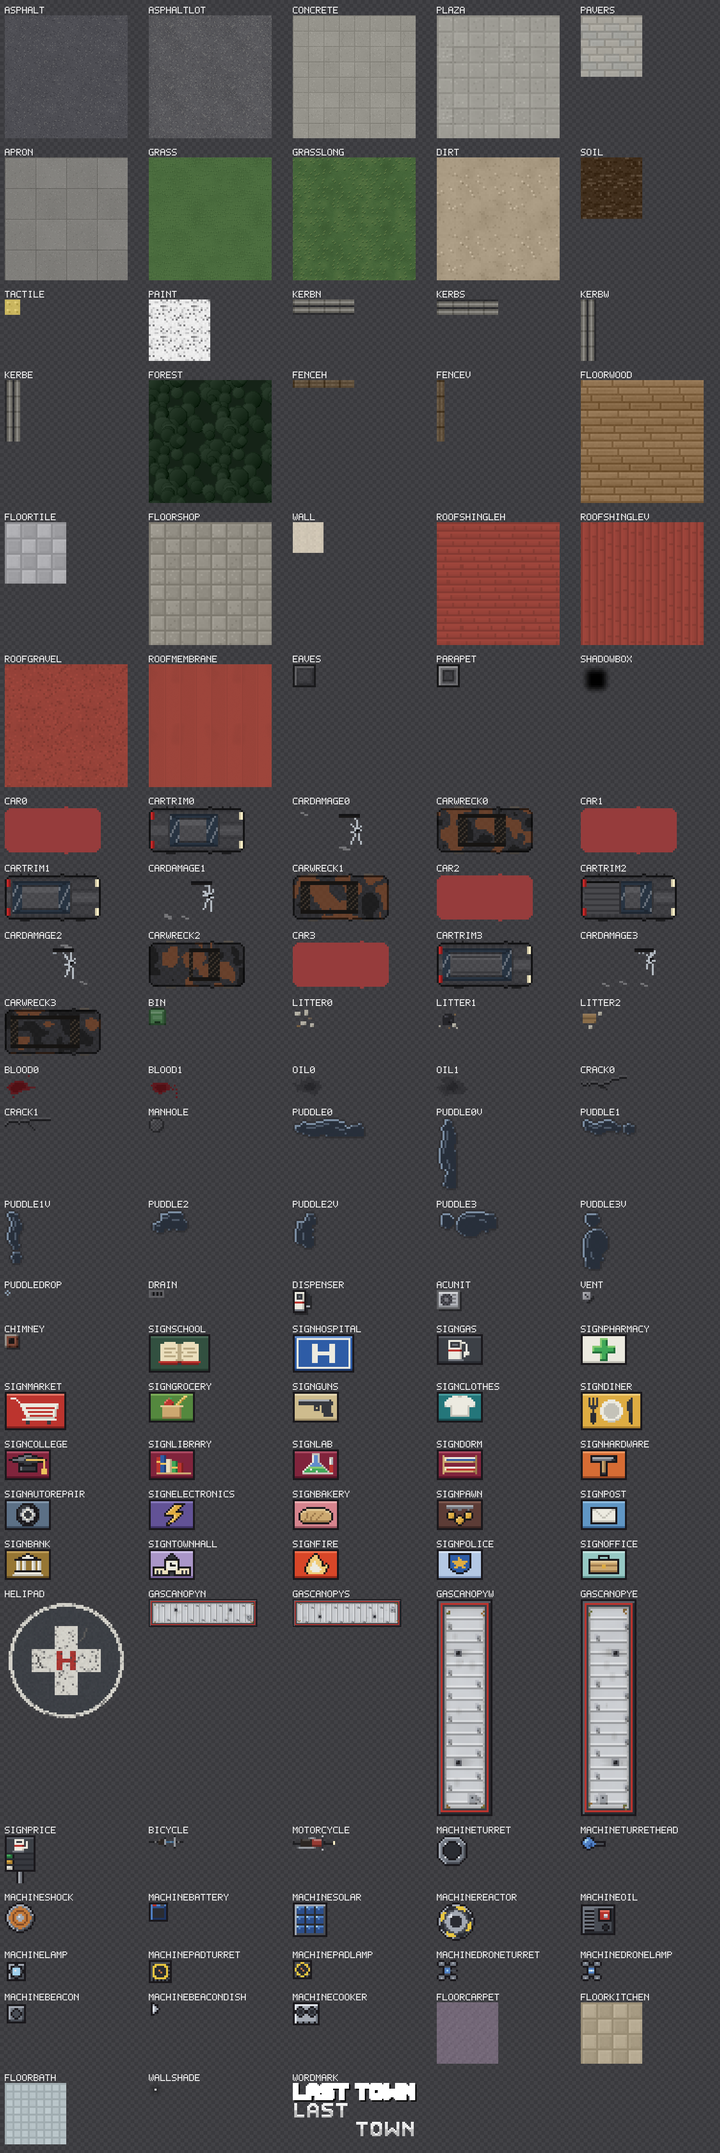
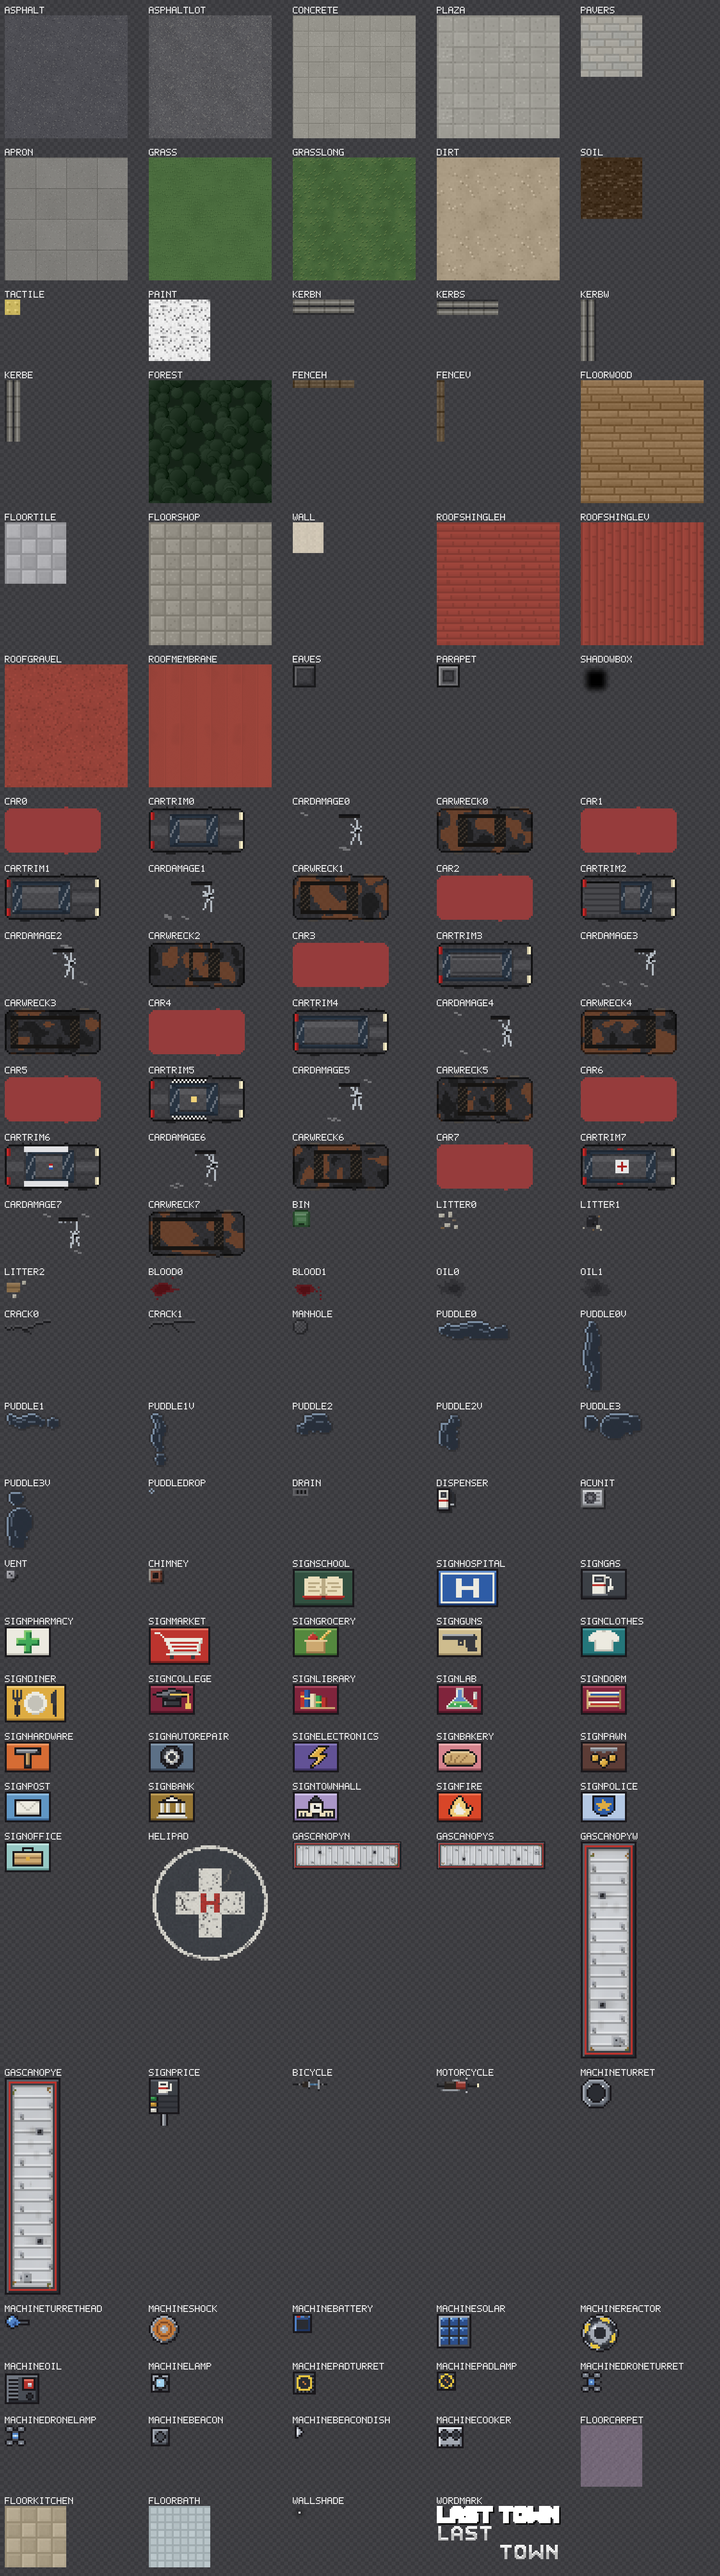
beta: tipos reais de veiculos (van/taxi/police/ambulance) + tints por local
4 novos estilos mesmo footprint 200x100 (gen-world-art CAR_STYLES 4->8,
livery no trim: porta correr, xadrez taxi, faixa+giroflex, cruz).
View: CAR_STYLES 8 + arrays. Mundo: CarDepot ctx (hospital/police/
public/shop/curb/pump/campus), carHash exato MP-26, base dessaturada
VEI-04. Renders rua/posto em docs/vehicles/img/*-v2.png.

Changed region(s): [[0.0, 0.0, 0.9813, 0.9987], [0.3987, 0.8426, 0.5827, 0.9987], [0.184, 0.8738, 0.3067, 0.9987]]

diff --git a/src/shared/game/world.ts b/src/shared/game/world.ts
@@ -662,6 +662,50 @@ function deadTownHsv(x: number, y: number, salt: number): Color3 {
 	return Color3.fromHSV(hue, 70 / 255, 190 / 255);
 }
 
+/**
+ * An exact 0..1 hash for service-vehicle tints (same integer discipline as `treeHash`: every intermediate under
+ * 2^53, so the server and every client agree to the bit, MP-26). Salts 91..95 live far from the tints (17, 27),
+ * the pump (83, 84) and the view (21, 23, 25, 26): paint is paint, never a rect, an id or a heading.
+ */
+function carHash(x: number, y: number, salt: number): number {
+	let s = (math.floor(x) * 5059 + math.floor(y) * 3083 + salt * 69557 + 7) % TREE_P;
+	s = (s * s + 3) % TREE_P;
+	s = (s * 27061 + 5) % TREE_P;
+	s = (s * s + 11) % TREE_P;
+	return s / TREE_P;
+}
+
+/** Where a parked car stands: the depot decides which service colours may show (VEI, ROADMAP item 6). */
+export type CarDepot = "curb" | "public" | "hospital" | "police" | "shop" | "construction" | "pump" | "campus";
+
+export interface CarCtx {
+	depot: CarDepot;
+	avenue: boolean;
+	commercial: boolean;
+}
+
+/**
+ * A car's paint (visual only, never physics or seed): a dessaturated base per VEI-04 (S 42, V 178, never neon)
+ * plus rare service colours that only show where they make sense -- white ambulances at the hospital, white-blue
+ * cruisers by the station, yellow cabs on avenues, commercial streets and public/shop lots. Pumps and the campus
+ * always wear the base (students' cars, fill-ups in progress).
+ */
+function carTint(x: number, y: number, ctx: CarCtx): Color3 {
+	if (ctx.depot !== "pump" && ctx.depot !== "campus") {
+		if (ctx.depot === "hospital" && carHash(x, y, 91) < 0.12) return Color3.fromHSV(0, 0, 232 / 255);
+		if (ctx.depot === "police" && carHash(x, y, 92) < 0.12) return Color3.fromHSV(145 / 255, 18 / 255, 225 / 255);
+		if (
+			(ctx.depot === "public" ||
+				ctx.depot === "shop" ||
+				(ctx.depot === "curb" && (ctx.avenue || ctx.commercial))) &&
+			carHash(x, y, 93) < 0.05
+		)
+			return Color3.fromHSV(50 / 255, 180 / 255, 210 / 255);
+	}
+	const hue = (math.floor(hash01(x, y, 17) * 26) * 10) / 255;
+	return Color3.fromHSV(hue, 42 / 255, 178 / 255);
+}
+
 interface BuildingDef {
 	type: number;
 	w: number;
@@ -1484,7 +1528,15 @@ function freeFrontRect(grid: YardGrid, e: LotEdge, minAlong: number, minDepth: n
 	return best;
 }
 
-function addCar(w: WorldData, x: number, y: number, cw: number, ch: number, heading: number): Solid {
+function addCar(
+	w: WorldData,
+	x: number,
+	y: number,
+	cw: number,
+	ch: number,
+	heading: number,
+	ctx: CarCtx = { depot: "curb", avenue: false, commercial: false },
+): Solid {
 	const q = math.floor(heading / (math.pi / 2) + 0.5);
 	return addSolid(w, {
 		kind: "car",
@@ -1498,7 +1550,7 @@ function addCar(w: WorldData, x: number, y: number, cw: number, ch: number, head
 		tags: "car",
 		rot: q - math.floor(q / 4) * 4,
 		heading,
-		tint: deadTownHsv(x, y, 17),
+		tint: carTint(x, y, ctx),
 	});
 }
 
@@ -1544,7 +1596,7 @@ function bestFrontRect(
 }
 
 /** Head-in parking lot opening onto edge `e` (one or two stall rows behind an aisle). */
-function addParking(g: Gen, lot: Lot, e: LotEdge, free: FrontRect): boolean {
+function addParking(g: Gen, lot: Lot, e: LotEdge, free: FrontRect, depot: CarDepot = "public"): boolean {
 	const SW = 112;
 	const SD = 224;
 	const AISLE = 200;
@@ -1575,7 +1627,11 @@ function addParking(g: Gen, lot: Lot, e: LotEdge, free: FrontRect): boolean {
 			const r = edgeRect(e, su + 6, su + 6 + TOWN.CAR_W, row.v0 + 12, row.v0 + 12 + TOWN.CAR_L);
 			if (!g.placer.canPlace(r.x, r.y, r.w, r.h, 4)) continue;
 			const nose = g.rng.chance(0.3) ? row.nose + math.pi : row.nose;
-			addCar(g.w, r.x, r.y, r.w, r.h, math.atan2(math.sin(nose), math.cos(nose)));
+			addCar(g.w, r.x, r.y, r.w, r.h, math.atan2(math.sin(nose), math.cos(nose)), {
+				depot,
+				avenue: false,
+				commercial: depot === "public" || depot === "shop",
+			});
 		}
 	}
 	cutsOf(g, e).push({ a: mid - 120, b: mid + 120, kind: "drive" });
@@ -1647,7 +1703,11 @@ function placeGas(g: Gen, lot: Lot, e1: LotEdge, e2: LotEdge, atA: boolean): boo
 				? { x: mid - TOWN.CAR_L / 2, y: c.y, w: TOWN.CAR_L, h: TOWN.CAR_W }
 				: { x: c.x, y: mid - TOWN.CAR_L / 2, w: TOWN.CAR_W, h: TOWN.CAR_L };
 			const heading = inwardHeading(e1) - math.pi / 2;
-			const parked = addCar(g.w, car.x, car.y, car.w, car.h, math.atan2(math.sin(heading), math.cos(heading)));
+			const parked = addCar(g.w, car.x, car.y, car.w, car.h, math.atan2(math.sin(heading), math.cos(heading)), {
+				depot: "pump",
+				avenue: false,
+				commercial: false,
+			});
 			parked.variant = hash01(island.x, island.y, 84) < PUMP_FILLING_SHARE ? PUMP_CAR_FILLING : PUMP_CAR_PARKED;
 		}
 	}
@@ -1736,7 +1796,7 @@ function placeCivicOn(
 		// hospital: a parking lot if one fits; otherwise (and for schools) a paved yard
 		const grid = yardGrid(g, lot);
 		const park = def === HOSPITAL_DEF ? bestFrontRect(lot, grid, 360, 424) : undefined;
-		if (park !== undefined && addParking(g, lot, park.e, park.r)) return true;
+		if (park !== undefined && addParking(g, lot, park.e, park.r, "hospital")) return true;
 		const best = bestFrontRect(lot, grid, 288, 224);
 		if (best !== undefined) {
 			const f = best.r;
@@ -2374,6 +2434,17 @@ function lotAt(w: WorldData, x: number, y: number): Lot | undefined {
 	return undefined;
 }
 
+/** the service depot of a curb from the buildings that stand on its lot (hospital 4, station 25) */
+function curbDepot(g: Gen, probe: Lot | undefined): CarDepot {
+	if (probe !== undefined) {
+		for (const p of g.placed.get(probe) ?? []) {
+			if (p.def.type === 4) return "hospital";
+			if (p.def.type === 25) return "police";
+		}
+	}
+	return "curb";
+}
+
 /** Parallel parking (right-hand traffic) and a few abandoned cars per street segment. */
 function parkCars(g: Gen): void {
 	const w = g.w;
@@ -2430,7 +2501,12 @@ function parkCars(g: Gen): void {
 					const y = v ? at : across;
 					const cw = v ? W : L;
 					const ch = v ? L : W;
-					if (g.placer.canPlace(x, y, cw, ch, 8, true)) addCar(w, x, y, cw, ch, heading);
+					if (g.placer.canPlace(x, y, cw, ch, 8, true))
+						addCar(w, x, y, cw, ch, heading, {
+							depot: curbDepot(g, probe),
+							avenue: road.avenue,
+							commercial: probe !== undefined && probe.zone === "commercial",
+						});
 				}
 			}
 			// abandoned: askew in a travel lane, only if a lane stays free beside it
@@ -2464,7 +2540,8 @@ function parkCars(g: Gen): void {
 				if (span0 > c0 + 4 && span1 < c1 - 4 && g.placer.canPlace(x, y, cw, ch, 24, true)) {
 					const spans = laneSpans(w, road, t - 24, t + L + 24, c0, c1);
 					spans.push([span0, span1]);
-					if (freeWidth(spans, c0, c1) >= TOWN.LANE_FREE) addCar(w, x, y, cw, ch, heading);
+					if (freeWidth(spans, c0, c1) >= TOWN.LANE_FREE)
+						addCar(w, x, y, cw, ch, heading, { depot: "curb", avenue: road.avenue, commercial: false });
 				}
 			}
 		}
@@ -2846,7 +2923,8 @@ function campusCurbParking(g: Gen, lot: Lot, doors: Array<{ e: LotEdge; u: numbe
 			const size = v ? road.w : road.h;
 			const spans = laneSpans(w, road, at - 24, at + L + 24, base, base + size);
 			spans.push(v ? [x, x + cw] : [y, y + ch]);
-			if (freeWidth(spans, base, base + size) >= TOWN.LANE_FREE) addCar(w, x, y, cw, ch, heading);
+			if (freeWidth(spans, base, base + size) >= TOWN.LANE_FREE)
+				addCar(w, x, y, cw, ch, heading, { depot: "campus", avenue: false, commercial: false });
 		}
 	}
 }

diff --git a/src/client/view/worldArtAssets.ts b/src/client/view/worldArtAssets.ts
@@ -63,6 +63,22 @@ export type WorldArtName =
 	| "carTrim3"
 	| "carDamage3"
 	| "carWreck3"
+	| "car4"
+	| "carTrim4"
+	| "carDamage4"
+	| "carWreck4"
+	| "car5"
+	| "carTrim5"
+	| "carDamage5"
+	| "carWreck5"
+	| "car6"
+	| "carTrim6"
+	| "carDamage6"
+	| "carWreck6"
+	| "car7"
+	| "carTrim7"
+	| "carDamage7"
+	| "carWreck7"
 	| "bin"
 	| "litter0"
 	| "litter1"
@@ -265,6 +281,38 @@ export const WORLD_ART: Record<WorldArtName, WorldArtAsset> = {
 	carDamage3: { id: "rbxassetid://117701098851376", w: 50, h: 25 },
 	/** overlay: suv: burnt out */
 	carWreck3: { id: "rbxassetid://118498588242035", w: 50, h: 25 },
+	/** mask: van: body (tint: paint) */
+	car4: { id: "", w: 50, h: 25 },
+	/** overlay: van: glass, lights, wheels, outline */
+	carTrim4: { id: "", w: 50, h: 25 },
+	/** overlay: van: smashed windshield, scratches */
+	carDamage4: { id: "", w: 50, h: 25 },
+	/** overlay: van: burnt out */
+	carWreck4: { id: "", w: 50, h: 25 },
+	/** mask: taxi: body (tint: paint) */
+	car5: { id: "", w: 50, h: 25 },
+	/** overlay: taxi: glass, lights, wheels, outline */
+	carTrim5: { id: "", w: 50, h: 25 },
+	/** overlay: taxi: smashed windshield, scratches */
+	carDamage5: { id: "", w: 50, h: 25 },
+	/** overlay: taxi: burnt out */
+	carWreck5: { id: "", w: 50, h: 25 },
+	/** mask: police: body (tint: paint) */
+	car6: { id: "", w: 50, h: 25 },
+	/** overlay: police: glass, lights, wheels, outline */
+	carTrim6: { id: "", w: 50, h: 25 },
+	/** overlay: police: smashed windshield, scratches */
+	carDamage6: { id: "", w: 50, h: 25 },
+	/** overlay: police: burnt out */
+	carWreck6: { id: "", w: 50, h: 25 },
+	/** mask: ambulance: body (tint: paint) */
+	car7: { id: "", w: 50, h: 25 },
+	/** overlay: ambulance: glass, lights, wheels, outline */
+	carTrim7: { id: "", w: 50, h: 25 },
+	/** overlay: ambulance: smashed windshield, scratches */
+	carDamage7: { id: "", w: 50, h: 25 },
+	/** overlay: ambulance: burnt out */
+	carWreck7: { id: "", w: 50, h: 25 },
 	/** sprite: wheelie bin */
 	bin: { id: "rbxassetid://140632839899508", w: 9, h: 9 },
 	/** sprite: spilled litter (flat) */
@@ -528,6 +576,22 @@ export const WORLD_ART_NAMES: Array<WorldArtName> = [
 	"carTrim3",
 	"carDamage3",
 	"carWreck3",
+	"car4",
+	"carTrim4",
+	"carDamage4",
+	"carWreck4",
+	"car5",
+	"carTrim5",
+	"carDamage5",
+	"carWreck5",
+	"car6",
+	"carTrim6",
+	"carDamage6",
+	"carWreck6",
+	"car7",
+	"carTrim7",
+	"carDamage7",
+	"carWreck7",
 	"bin",
 	"litter0",
 	"litter1",

diff --git a/src/client/view/worldView.ts b/src/client/view/worldView.ts
@@ -191,18 +191,45 @@ const OVERGROWN = 0.3;
 const CAR_INTACT = 0;
 const CAR_BROKEN = 1;
 const CAR_BURNT = 2;
-/** car body styles in the art (sedan, hatchback, pickup, SUV) */
-const CAR_STYLES = 4;
+/** car body styles in the art (sedan, hatchback, pickup, SUV, van, taxi, police, ambulance) */
+const CAR_STYLES = 8;
 /**
  * A shrub's crown (VEG-06): lower than a person, so under every body (a survivor beside a shrub stands over its
  * leaves; it never hides a zombie, LEG-03), over the ground and the trunks' layer's shadows; its light one layer up.
  */
 const Z_SHRUB = Z.structure;
 /** the named textures, typed once (template strings would allocate a string per car per frame) */
-const CAR_MASK: Array<WorldArtName> = ["car0", "car1", "car2", "car3"];
-const CAR_TRIM: Array<WorldArtName> = ["carTrim0", "carTrim1", "carTrim2", "carTrim3"];
-const CAR_DAMAGE: Array<WorldArtName> = ["carDamage0", "carDamage1", "carDamage2", "carDamage3"];
-const CAR_WRECK: Array<WorldArtName> = ["carWreck0", "carWreck1", "carWreck2", "carWreck3"];
+const CAR_MASK: Array<WorldArtName> = ["car0", "car1", "car2", "car3", "car4", "car5", "car6", "car7"];
+const CAR_TRIM: Array<WorldArtName> = [
+	"carTrim0",
+	"carTrim1",
+	"carTrim2",
+	"carTrim3",
+	"carTrim4",
+	"carTrim5",
+	"carTrim6",
+	"carTrim7",
+];
+const CAR_DAMAGE: Array<WorldArtName> = [
+	"carDamage0",
+	"carDamage1",
+	"carDamage2",
+	"carDamage3",
+	"carDamage4",
+	"carDamage5",
+	"carDamage6",
+	"carDamage7",
+];
+const CAR_WRECK: Array<WorldArtName> = [
+	"carWreck0",
+	"carWreck1",
+	"carWreck2",
+	"carWreck3",
+	"carWreck4",
+	"carWreck5",
+	"carWreck6",
+	"carWreck7",
+];
 const LITTER: Array<WorldArtName> = ["litter0", "litter1", "litter2"];
 const BLOOD: Array<WorldArtName> = ["blood0", "blood1"];
 const OIL: Array<WorldArtName> = ["oil0", "oil1"];
